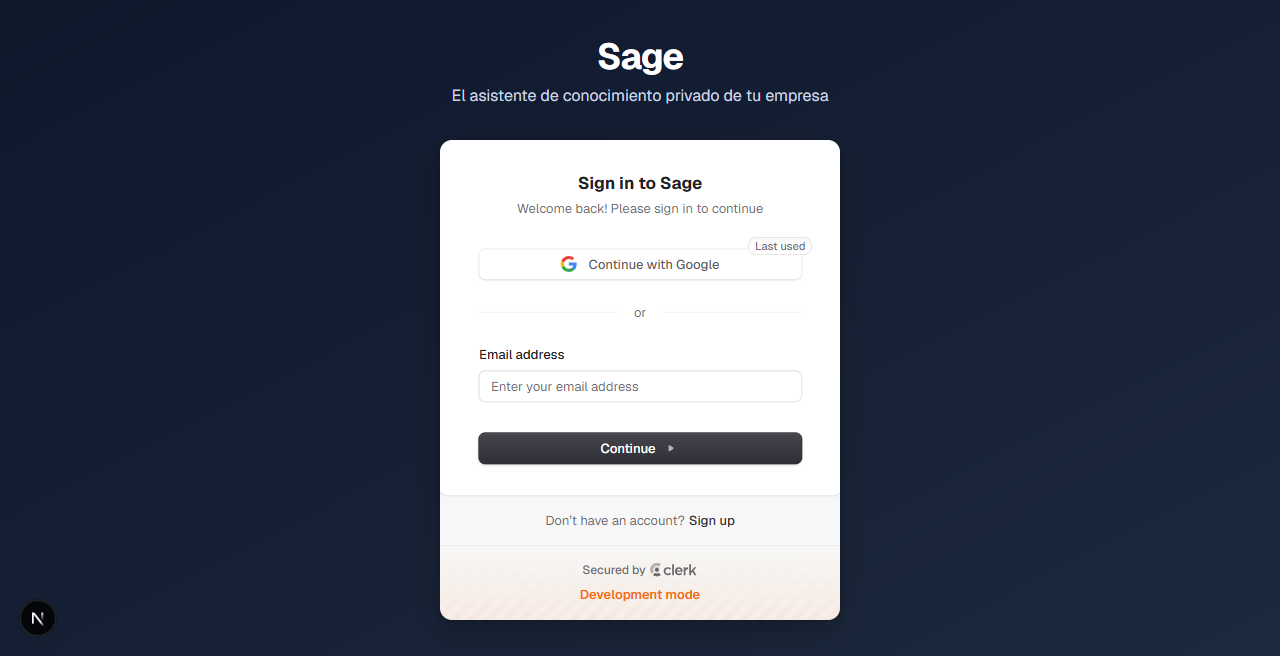
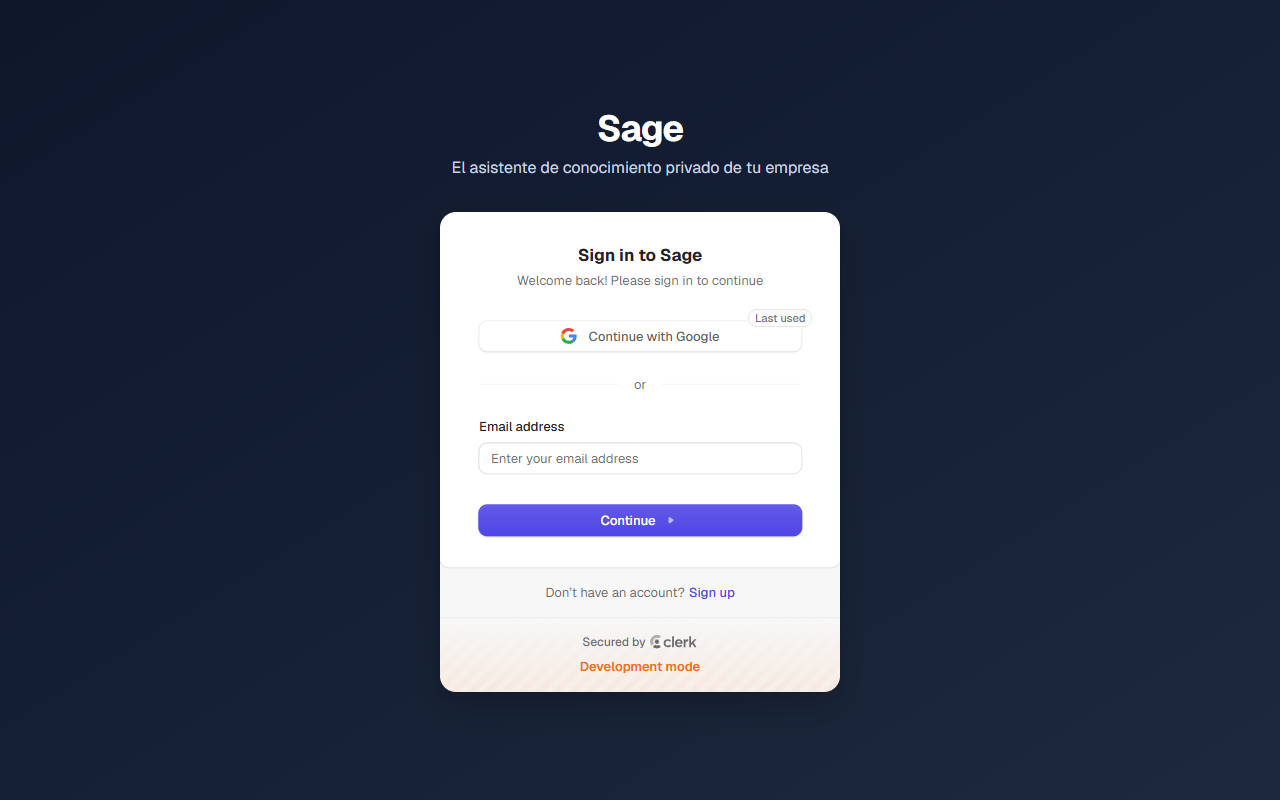
feat(frontend): tematizar Clerk con el índigo de marca (T2.1)
Pasa appearance al ClerkProvider (colorPrimary + borderRadius) para que
SignIn/SignUp/UserButton usen el índigo de marca en lugar del tema genérico
de Clerk. Recaptura public/sign-in.png con el botón ya tematizado.

diff --git a/frontend/src/app/layout.tsx b/frontend/src/app/layout.tsx
@@ -41,7 +41,15 @@ export default function RootLayout({
   children: React.ReactNode;
 }>) {
   return (
-    <ClerkProvider afterSignOutUrl="/">
+    <ClerkProvider
+      afterSignOutUrl="/"
+      appearance={{
+        variables: {
+          colorPrimary: "#4f46e5",
+          borderRadius: "0.5rem",
+        },
+      }}
+    >
       <html
         lang="es"
         className={`${geistSans.variable} ${geistMono.variable} h-full antialiased`}